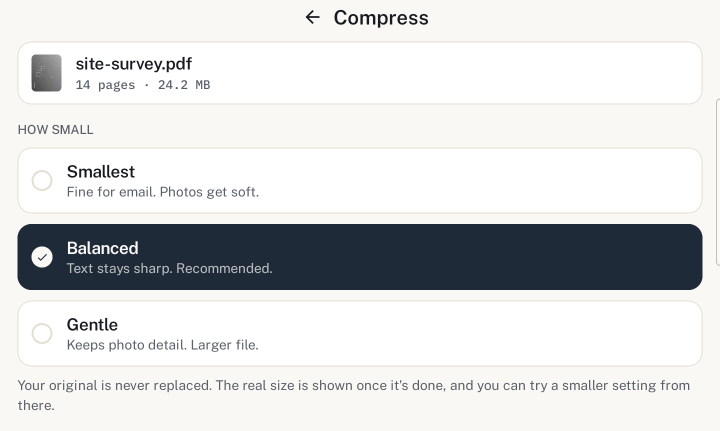
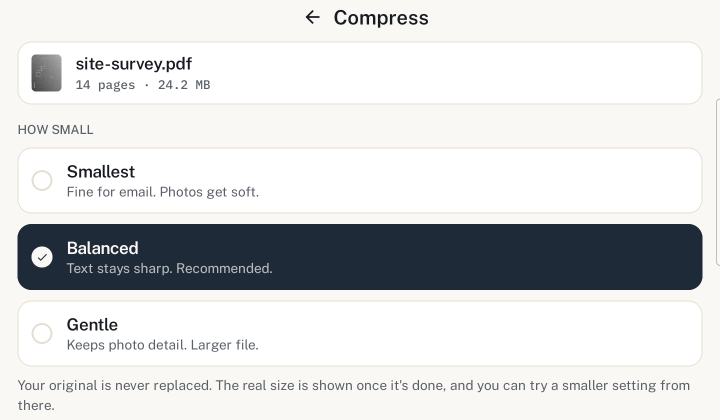
Five screens: Home on the new build, and Read a scan unheld
THE FOURTH SCREEN SHIPS. It was held on an assumption the crop removes: the set's frame stops
about four hundred rows above the paywall block, so the sentence that contradicted the price card
never reached the page. Held for a few hours, shipped once the crop was measured rather than
assumed.

HOME JOINS IT, from the fresh capture — the only one of the five taken on a build carrying the new
mark, and the only one whose app bar shows a mark at all, so the set is not visibly mixed. That is
luck; the next pass replaces all five together.

THE CROP MOVED, 68..930 to 68..908, and it was checked against the new frame rather than applied
blind. Home arrived at 1440x2220 — the app session had trimmed the Samsung taskbar before sending
— and at 930 its "SENDS TEXT TO OUR AI" label was cut through the middle of its letters. The top
bound cannot move up to compensate: the status bar ends at row 64 and takes the clock and three
notification glyphs with it, so no retake was needed for those. Every panel is now 1440x840,
published 720x420, and the frame is 470px so the app's own body text is readable rather than
suggested.

loading="lazy" came off the four hidden panels. A lazy image inside a hidden panel is not fetched
until the tab is clicked, so every first click showed an empty frame while it arrived. They load
with the page at low priority instead: 194KB of screenshots on a page whose argument is
[…]

diff --git a/src/pages/app.html b/src/pages/app.html
@@ -23,38 +23,65 @@
           <div class="screens__tabs" role="tablist" aria-labelledby="screens-label">
             <button type="button" class="screens__tab" role="tab" id="screen-tab-0" aria-controls="screen-panel-0" aria-selected="true">
               <span class="screens__n" aria-hidden="true">01</span>
-              <span class="screens__name">Compress</span>
-              <span class="screens__cap">Three settings, in plain words</span>
+              <span class="screens__name">Home</span>
+              <span class="screens__cap">The screen it opens on</span>
             </button>
             <button type="button" class="screens__tab" role="tab" id="screen-tab-1" aria-controls="screen-panel-1" aria-selected="false">
               <span class="screens__n" aria-hidden="true">02</span>
-              <span class="screens__name">Compressed</span>
-              <span class="screens__cap">24.2 MB became 6.3 MB</span>
+              <span class="screens__name">Compress</span>
+              <span class="screens__cap">Three settings, in plain words</span>
             </button>
             <button type="button" class="screens__tab" role="tab" id="screen-tab-2" aria-controls="screen-panel-2" aria-selected="false">
               <span class="screens__n" aria-hidden="true">03</span>
+              <span class="screens__name">Compressed</span>
+              <span class="screens__cap">24.2 MB became 6.3 MB</span>
+            </button>
+            <button type="button" class="screens__tab" role="tab" id="screen-tab-3" aria-controls="screen-panel-3" aria-selected="false">
+              <span class="screens__n" aria-hidden="true">04</span>
+              <span class="screens__name">Read a scan</span>
+              <span class="screens__cap">24 pages of a scan, as text</span>
+            </button>
+            <button type="button" class="screens__tab" role="tab" id="screen-tab-4" aria-controls="screen-panel-4" aria-selected="false">
+              <span class="screens__n" aria-hidden="true">05</span>
               <span class="screens__name">Photos to PDF</span>
               <span class="screens__cap">Pages in the order you add them</span>
             </button>
           </div>
         </div>
       </div>
-      <!-- Taken on the tablet at 1440x2304, cropped to the top of the screen, then
-           box-averaged to 720 wide. The documents in them are made up; nothing else is changed. -->
+      <!-- loading="lazy" on a hidden panel means the image is not fetched until the tab is clicked, so the first
+           click on each of the other four showed an empty frame while it arrived. They are fetched with the page
+           instead, at low priority: 194KB of screenshots on a page whose argument is screenshots, all same-origin.
+           The share sheet further down keeps its lazy attribute — that one really is below the fold. -->
+      <!-- Taken on the tablet, cropped to source rows 68..908 of the frame and box-averaged to 720 wide, so
+           every panel is the same size and switching does not move the page. 68 is below the status bar, which is
+           what takes the clock and the notification glyphs out; 908 is above the first thing each screen cuts
+           through. Home is 1440x2220 because the app session trimmed the taskbar before sending it, and it is the
+           only one of the five taken on a build carrying the new mark. The documents are made up. -->
       <figure class="appframe">
         <div class="appframe__screen">
           <div id="screen-panel-0" role="tabpanel" aria-labelledby="screen-tab-0">
-            <img class="appframe__shot" src="/app-compress.png" width="720" height="431"
-                 alt="Compress in the app: site-survey.pdf, 14 pages, 24.2 MB, above three settings —
-                      Smallest, Balanced and Gentle — each with a sentence saying what it costs." />
+            <img class="appframe__shot" src="/app-home.png" width="720" height="420"
+                 alt="The app&rsquo;s home screen: Photos to PDF across the top, then Compress, Pages, Merge &amp; split
+                      and Read a scan, each with a line saying what it does." />
           </div>
           <div id="screen-panel-1" role="tabpanel" aria-labelledby="screen-tab-1" hidden>
-            <img class="appframe__shot" src="/app-compressed.png" width="720" height="431" loading="lazy"
-                 alt="The result: before 24.2 MB, after 6.3 MB, 74% smaller, 17.8 MB saved, and the file
-                      it wrote — 14 pages, 6.3 MB." />
+            <img class="appframe__shot" src="/app-compress.png" width="720" height="420" fetchpriority="low"
+                 alt="Compress in the app: site-survey.pdf, 14 pages, 24.2 MB, above three settings &mdash;
+                      Smallest, Balanced and Gentle &mdash; each with a sentence saying what it costs." />
           </div>
           <div id="screen-panel-2" role="tabpanel" aria-labelledby="screen-tab-2" hidden>
-            <img class="appframe__shot" src="/app-photos-to-pdf.png" width="720" height="431" loading="lazy"
+            <img class="appframe__shot" src="/app-compressed.png" width="720" height="420" fetchpriority="low"
+                 alt="The result: before 24.2 MB, after 6.3 MB, 74% smaller, 17.8 MB saved, and the file it wrote
+                      &mdash; 14 pages, 6.3 MB." />
+          </div>
+          <div id="screen-panel-3" role="tabpanel" aria-labelledby="screen-tab-3" hidden>
+            <img class="appframe__shot" src="/app-read-a-scan.png" width="720" height="420" fetchpriority="low"
+                 alt="Read a scan in the app: quarterly-report.pdf, 24 pages, &ldquo;Read from 24 pages.&rdquo;, and the
+                      recognised text filling the screen." />
+          </div>
+          <div id="screen-panel-4" role="tabpanel" aria-labelledby="screen-tab-4" hidden>
+            <img class="appframe__shot" src="/app-photos-to-pdf.png" width="720" height="420" fetchpriority="low"
                  alt="Photos to PDF in the app: three photographed pages as numbered thumbnails, with
                       &ldquo;3 photos &middot; 3 pages&rdquo; and &ldquo;Hold to reorder&rdquo;." />
           </div>

diff --git a/src/styles/app.css b/src/styles/app.css
@@ -467,7 +467,7 @@ input, button, select, textarea { font-family: inherit; }
 .screens__cap { font-size: 14px; color: var(--ink-76); }
 .screens__tab[aria-selected="true"] .screens__cap { color: rgba(255, 255, 255, .78); }
 
-.appframe { flex: 0 1 420px; min-width: 0; margin: 0; }
+.appframe { flex: 0 1 470px; min-width: 0; margin: 0; }
 .appframe__screen { border: 1px solid var(--line); border-radius: 12px; overflow: hidden; background: var(--card); }
 .appframe__shot { display: block; width: 100%; height: auto; }
 .appframe__cap { margin: 8px 0 0; font-family: var(--mono); font-size: 11.5px; line-height: 1.5; color: var(--ink-74); }

diff --git a/CLAIMS.md b/CLAIMS.md
@@ -80,7 +80,8 @@ the work is done.
 64. [The happy path is the one nobody writes copy for, and the only one everybody sees](#64-the-happy-path-is-the-one-nobody-writes-copy-for-and-the-only-one-everybody-sees)  
 65. [A mechanism you remove was doing more jobs than the one you removed it for](#65-a-mechanism-you-remove-was-doing-more-jobs-than-the-one-you-removed-it-for)  
 66. [A number that supports what you hoped for is the one to distrust, and precision is not the same as aim](#66-a-number-that-supports-what-you-hoped-for-is-the-one-to-distrust-and-precision-is-not-the-same-as-aim)  
-67. [A design delivered as a working page brings its own dependencies, and they are invisible in the thing you are reviewing](#67-a-design-delivered-as-a-working-page-brings-its-own-dependencies-and-they-are-invisible-in-the-thing-you-are-reviewing)
+67. [A design delivered as a working page brings its own dependencies, and they are invisible in the thing you are reviewing](#67-a-design-delivered-as-a-working-page-brings-its-own-dependencies-and-they-are-invisible-in-the-thing-you-are-reviewing)  
+68. [A trigger that comes true early: write an unblock condition as what the reader can observe, not as what you were waiting for](#68-a-trigger-that-comes-true-early-write-an-unblock-condition-as-what-the-reader-can-observe-not-as-what-you-were-waiting-for)
 
 <!-- /index -->
 
@@ -2402,10 +2403,74 @@ install that build.
 other three screens — that capture ends above the paywall block: the contradicting sentence is about 400 rows below
 the cut and never reaches the page. So the picture that exposed the contradiction would not have published it. The
 evidence was in the full frame and the finding came from reading the full frame; **had the capture arrived already
-cropped, as a designer would reasonably have delivered it, none of this would have been visible at all.** It is held
-now by choice rather than by the flip (`docs/sale-go-live.md` §4).
+cropped, as a designer would reasonably have delivered it, none of this would have been visible at all.**
+
+**So: ask for the uncropped frame and do the cropping here.** It paid twice on the day it was noticed. The Read a
+scan capture carried a money claim four hundred rows below anything the page would use. The fresh Home capture,
+which did arrive trimmed, had had a taskbar removed that nobody on this side would have known to ask about —
+pinned apps and two PDFiq launcher icons — and its status bar still held three notification glyphs that the crop
+then took out. **A sensible crop removes exactly the material that tells you what you are looking at**, and the
+person making it is choosing, reasonably, on what the page needs rather than on what the reviewer needs. The
+screenshot is evidence about a surface nobody here can open; evidence arrives whole or it is testimony.
+
+(The capture was not held in the end. It ships, five panels, once the crop was measured rather than assumed —
+the frame stops well above the sentence.)
 
 So: [check 19] with a picture instead of a sentence — a decision on one surface expires a claim published on
 another, and a capture of that surface is evidence the same way a quotation is. **A screenshot is a quotation of a
 surface you do not otherwise read.** The design was reviewed for its layout and its dependencies; the thing it
 actually settled was a money claim, and it settled it by being a photograph rather than an argument.
+
+### 68. A trigger that comes true early: write an unblock condition as what the reader can observe, not as what you were waiting for
+
+Deferrals in this repo carry an **unblocks when**. On 27 September 2026 one of them was found to have been
+written twice, in two files, with the same intent and two different phrasings — and only one of them was still
+safe to act on.
+
+The deferral is the largest one here: fourteen sentences across seven files saying a Pro purchase "does not unlock
+anything in the Android app". Reverting them publishes "covers both".
+
+- `docs/sale-go-live.md` §4: **"Unblocks when: vc18 — the app release that honours a web purchase — is live on
+  Play."**
+- TECH_DEBT.md, the same deferral: "the app cannot honour a web purchase until `BILLING_ENABLED` is split".
+
+The first names an **event a reader can go and check**. The second names the **cause the author was waiting for**.
+They were written the same week, by people who meant the same thing.
+
+Then the world moved. The flag was split, the app shipped it, and on 27 September a purchase made on pdf-iq.com
+with a real card turned up as Pro in a Play-signed build — proved by accident, because a signature mismatch forced
+a clean install. **The cause is now satisfied. The event is not**, and will not be until roughly 9 October: Play
+production access was refused on 25 September, so nobody outside closed testing can install the build that honours
+their purchase.
+
+So the TECH_DEBT phrasing reads as met today. Acting on it would publish "your $14.99 covers the Android app" to
+people who cannot install the Android app that honours it — on the page where they hand over money, which is the
+exact failure the deferral exists to prevent.
+
+**The rule: phrase an unblock condition as the thing the reader can observe, not the thing you are waiting for.**
+
+1. **The cause changes when the world changes; the observable stays true to what it promises.** "When
+   `BILLING_ENABLED` is split" was a faithful description of the blocker on the day it was written and became a
+   wrong trigger the day the blocker moved, without anyone editing it. "Live on Play" cannot do that: it means the
+   same thing in every future.
+2. **You get the check for free.** Anyone — the owner, a session with no context, someone reading this in a
+   year — can open Play and see whether vc18 is there. Nobody can see whether a flag in another repository has
+   been split without going and looking, which is why nobody would have.
+3. **Two records of one deferral is how a stale condition survives**, which this document already knew (owner,
+   20 September 2026) and had already acted on: the condition is *stated once*, in the go-live doc, and TECH_DEBT
+   was supposed to hold only the reasoning. The prose leaked a second phrasing of it anyway. **A rule that says
+   "state it once" does not stop a restatement that does not look like one** — "until `BILLING_ENABLED` is split"
+   reads as explanation, not as a trigger, right up to the moment somebody treats it as one.
+4. **It survived by luck, not by design.** Nobody chose the observable phrasing for this reason; the go-live doc
+   happens to be written in terms of releases because that is what it is about. That is what makes it an entry
+   rather than a note — the next condition gets the phrasing it happens to get.
+
+**Distinct from [check 18].** There, a status goes stale in the direction that flatters: a thing that was true
+becomes false while still being displayed. Here nothing displayed is wrong — the condition is an instruction to a
+future reader, and it **becomes actionable too early**. A stale status misinforms; a premature trigger makes
+someone do the right thing at the wrong time, and they do it confidently, because the condition they were given
+was met.
+
+**Sweep, when next in these files:** every "unblocks when", "revisit when" and "until" in TECH_DEBT.md and
+docs/sale-go-live.md, asking of each — could a reader check this without asking anyone? If not, rewrite it as the
+event that would make them right.

diff --git a/TECH_DEBT.md b/TECH_DEBT.md
@@ -675,17 +675,23 @@ than a rule, and the Home capture does show it. Anything that changes the app's 
 invalidates the set.
 
 **What that means in practice:** re-capturing is part of shipping an app release that changes the UI, not something
-to remember afterwards. Four to five captures, one pass on the device, one uniform crop. The crop is source rows
-68..930 of a 1440x2304 frame — status bar off the top, above the taskbar at the bottom, stopping below the screen's
-top block of content — then box-averaged to 720 wide.
+to remember afterwards. Five captures, one pass on the device, one uniform crop: **source rows 68..908, then
+box-averaged to 720 wide**, giving 720x420 panels that switch without moving the page. 68 is below the status bar
+and takes the clock and any notification glyphs with it; 908 is above the first thing any of the five screens cuts
+through — it moved down from 930 because Home's "SENDS TEXT TO OUR AI" label sat exactly on that line.
+
+**Ask for the frames uncropped** and do the cropping here (CLAIMS 67). Home arrived with its taskbar already
+trimmed, at 1440x2220 rather than 2304, which is why the row numbers have to be checked against each frame rather
+than applied blind — a frame trimmed from the bottom leaves the top bound alone, but nothing guarantees that.
 
 **Accepted deliberately** (owner, 27 September 2026): "yes, deliberately, with two conditions. The switcher ships
 with however many good screenshots exist, not five slots waiting to be filled. Four now, five when the fifth is
 worth taking. An empty state is worse than a shorter list. And it goes in TECH_DEBT with its cadence stated."
 
-It ships with three rather than four. The fourth capture, Read a scan, is held — see `docs/sale-go-live.md` §4 for
-why and for the one commit that ships it. In short: the full frame shows the app's paywall telling the reader that
-Pro bought on pdf-iq.com unlocks the app, which contradicted the price card on this page until the app's half was
-proved on production on 27 September; the website's sentences are the stale ones and stay up until a buyer can
-install that build. The cropped frame does not reach the paywall block, so shipping it would publish nothing false.
-The cropped file is at `docs/pending/app-read-a-scan.png`, outside `public/`.
+It ships with five: Home, Compress, Compressed, Read a scan, Photos to PDF. Read a scan was held for a few hours
+on 27 September while its full frame was read as carrying a contradiction — see `docs/sale-go-live.md` §4 and
+CLAIMS 67 — and shipped once the published crop was measured rather than assumed.
+
+**Four of the five are the 26 September pass and do not carry the new mark.** Only Home was taken on a build that
+has it, and it is the only one of the five whose app bar shows a mark at all, so the set is not visibly mixed. That
+is luck. The next pass replaces all five together.

diff --git a/docs/sale-go-live.md b/docs/sale-go-live.md
@@ -717,13 +717,14 @@ exactly like the defect this section exists because of. Do not read a "still gra
   would publish nothing false, and **the screenshot is not blocked by the flip**: nothing in the frame changes when
   the sentences do.
 
-  **Held anyway** (owner, 27 September 2026), before that was known. The cropped frame is committed at
-  `docs/pending/app-read-a-scan.png` — outside `public/`, so it is versioned and not served — and shipping it is
-  one commit: move the file, add the panel, its tab and its alt text to `src/pages/app.html`. Do that whenever the
-  owner wants a fourth screen; it does not have to wait for anything.
+  **Held for a few hours and then shipped** (owner, 27 September 2026: "I held it on an assumption the crop removes
+  — hold it no longer"). It is panel 04 of five on /app/.
 
   **What does wait for the flip** is the app's own sentence, which is the app session's to change, and the fourteen
-  website sentences above.
+  website sentences above. Neither touches the screenshot: nothing inside that frame changes when they do. **This
+  item stays in the inventory only as the record of why it was nearly not shipped** — a capture was read for a
+  contradiction that the published crop does not contain, and the distinction between "the surface says this" and
+  "the page publishes this" is worth having written down the next time a screenshot carries a claim.
 
   **The part worth keeping.** This item's condition was written when the blocker was the app's capability. The
   blocker is now distribution, and the condition happens to still be right — but only by luck. Had it been phrased
